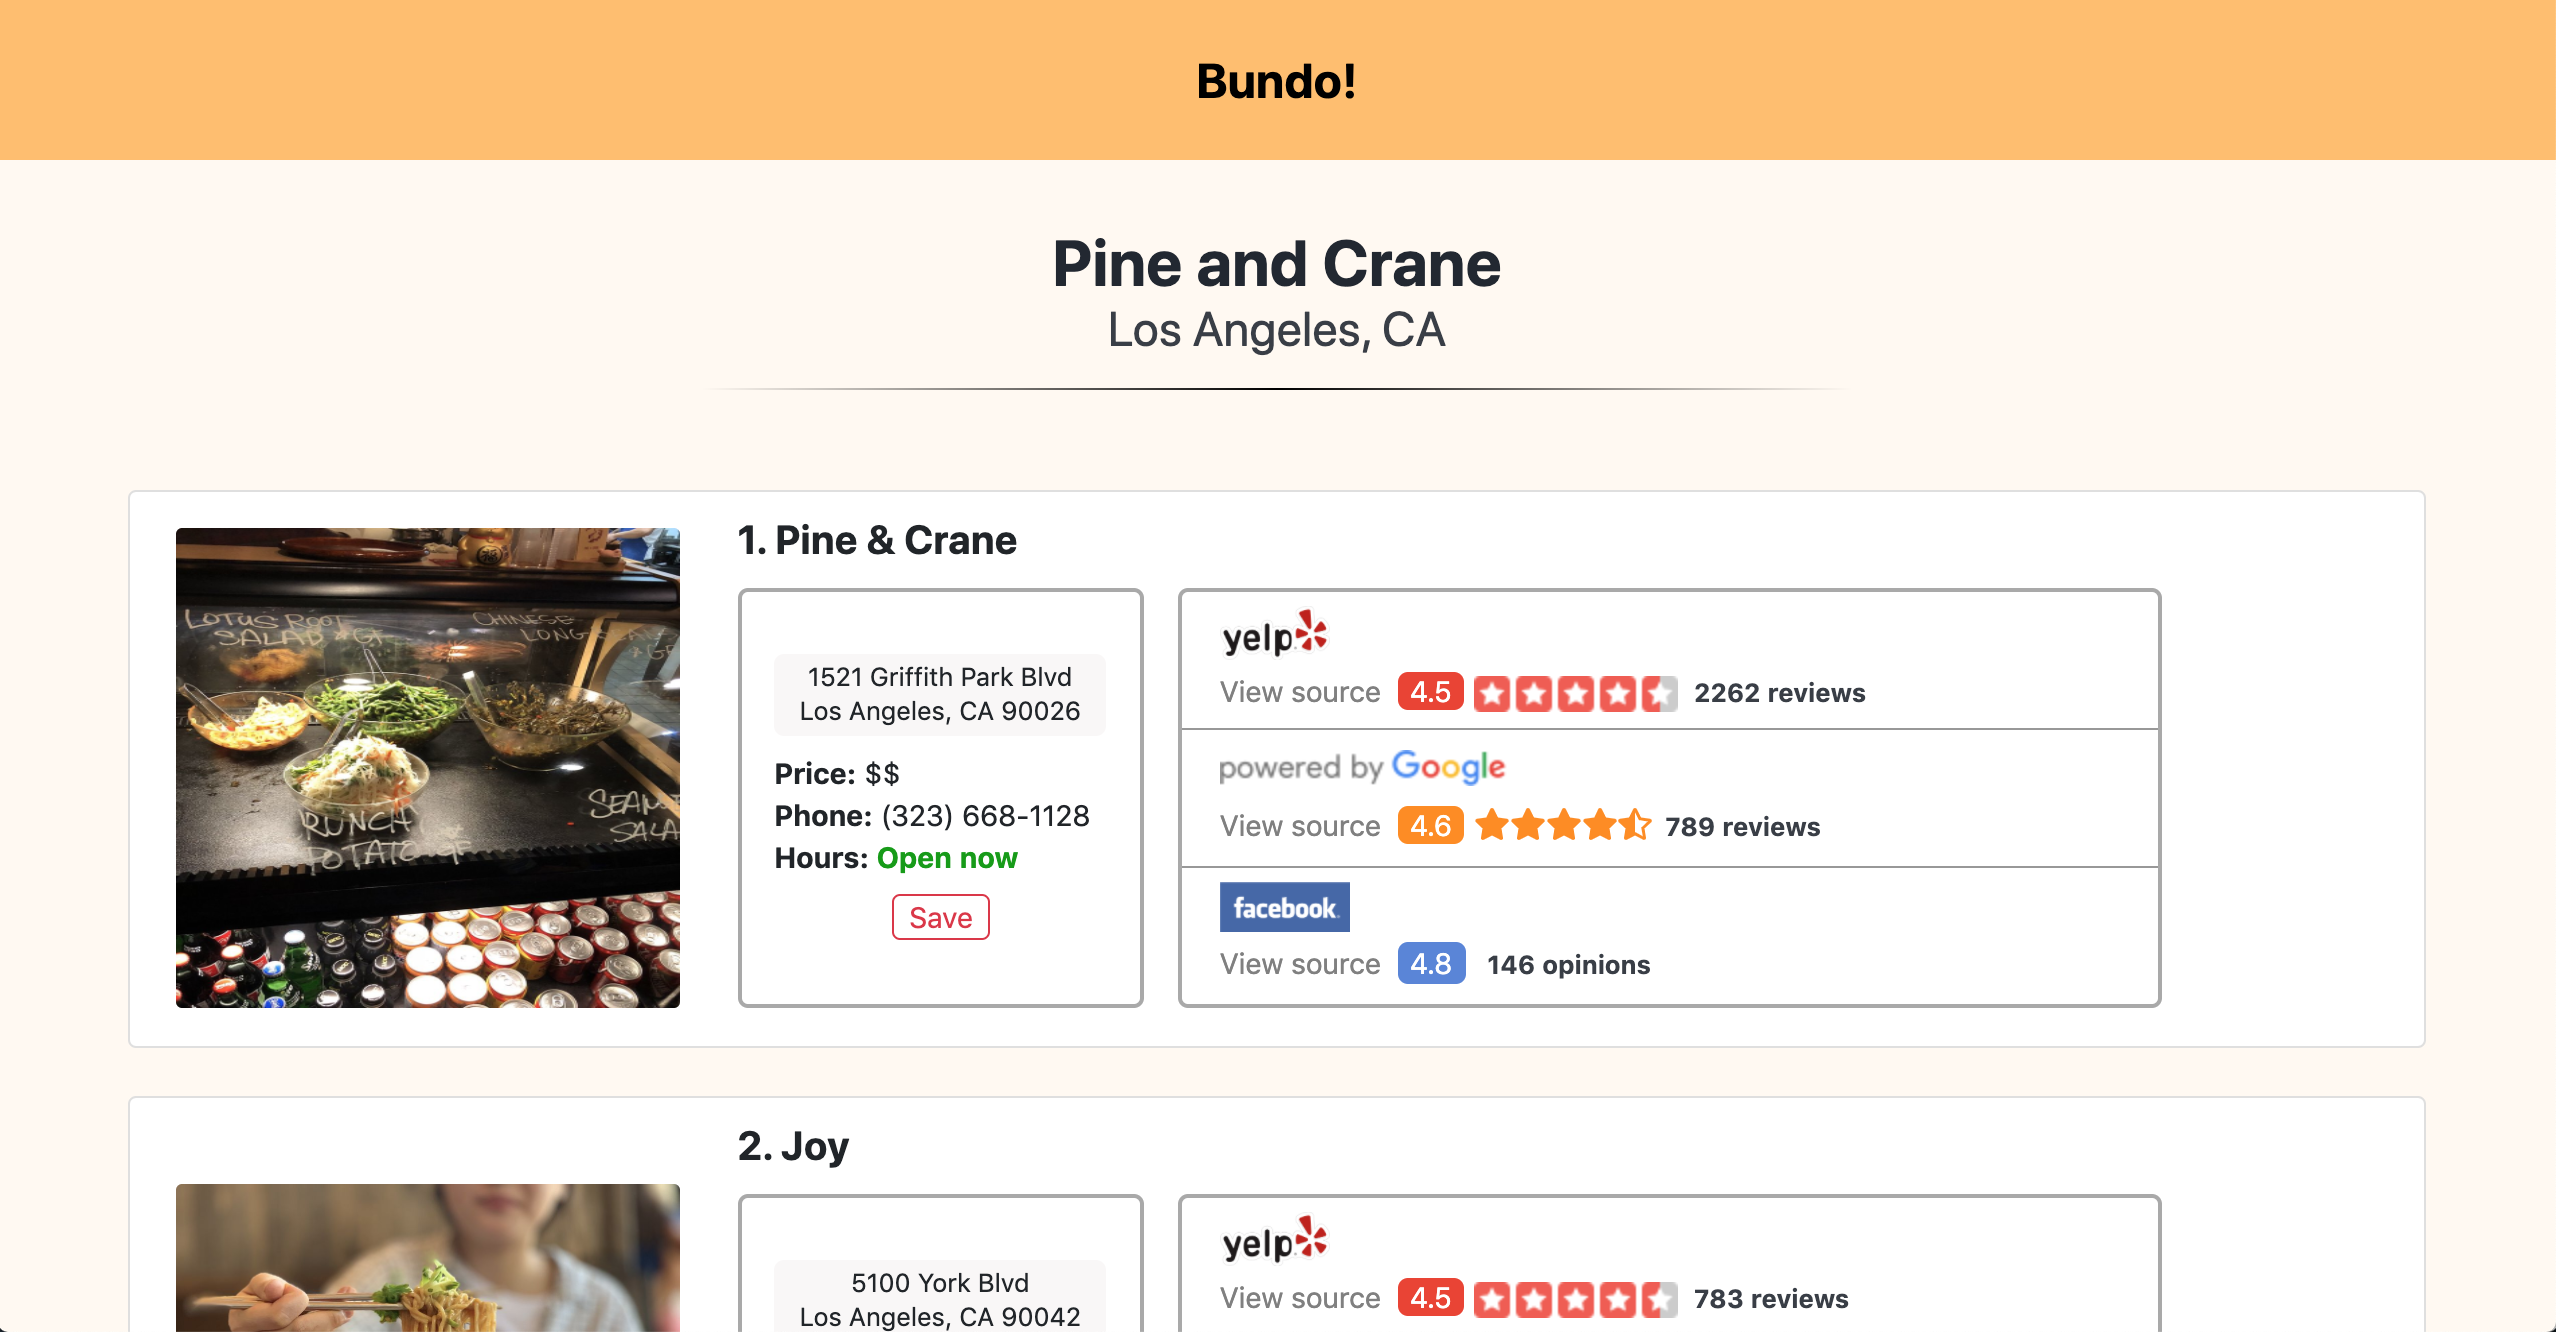
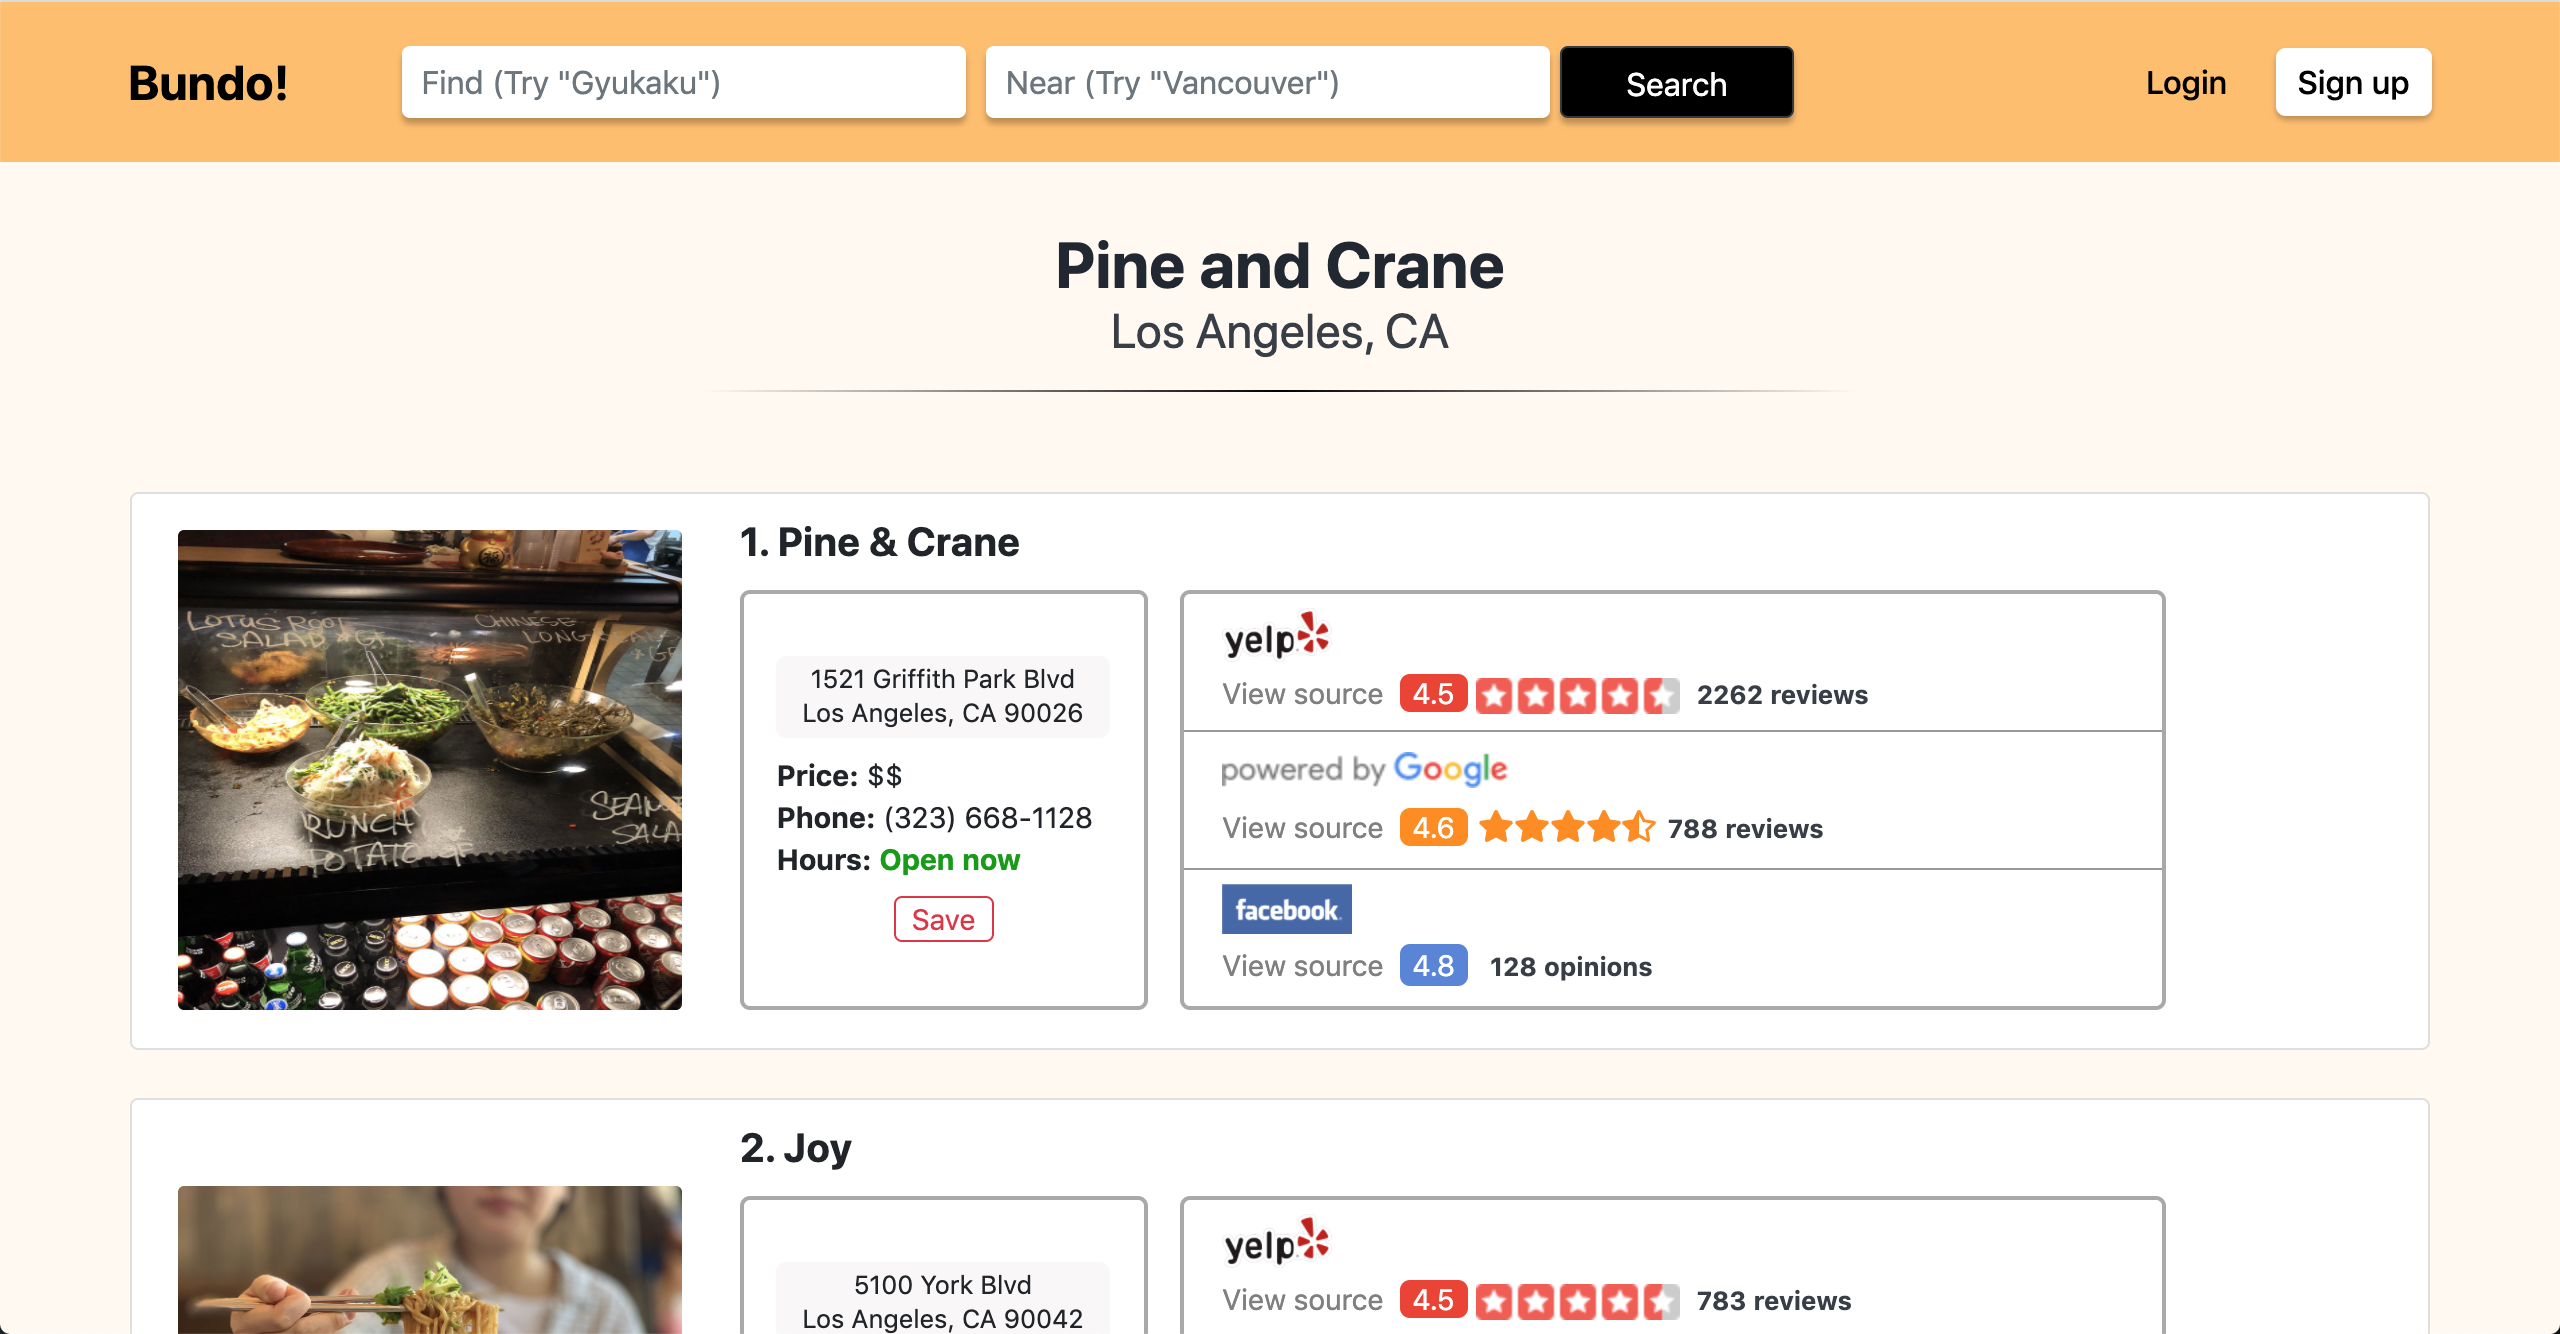
Add search capability and user buttons to results page nav bar

diff --git a/client/src/components/SearchForm.js b/client/src/components/SearchForm.js
@@ -1,8 +1,9 @@
+/* eslint-disable react/prop-types */
 import React, { useState }from 'react'
 import { useHistory, useLocation } from 'react-router-dom'
-import '../stylesheets/Home.css'
+import '../stylesheets/SearchForm.css'
 
-const SearchForm = () => {
+const SearchForm = ({ inNavBar }) => {
 	const [findDesc, setFindDesc] = useState('')
 	const [findLoc, setFindLoc] = useState('')
 	const history = useHistory()
@@ -14,14 +15,26 @@ const SearchForm = () => {
 			pathname: '/query/search',
 			search: `?find_desc=${encodeURIComponent(findDesc)}&find_loc=${encodeURIComponent(findLoc)}`
 		}
-		history.push(searchResultsLocation)
+		if (location.pathname === '/') {
+			history.push(searchResultsLocation)
+		} else {
+			history.push(searchResultsLocation)
+			window.location.reload()
+		}
+	}
+
+	let btnClassName = 'search-button btn btn-dark'
+	let inputClassName = 'col-md-6'
+	if (inNavBar) {
+		btnClassName = 'col-md-2 btn btn-dark search-button-navbar'
+		inputClassName = 'col-md-5'
 	}
 
 	return (
-		<div className="home-page text-right">
-			<form className="home-page-form" onSubmit={handleSubmit}>
+		<div className={inNavBar? 'navbar-form-main':'search-form-main'}>
+			<form className={inNavBar? 'navbar-form':'home-page-form'} onSubmit={handleSubmit}>
 				<div className="form-row align-items-center">
-					<div className="col-md-6">
+					<div className={inputClassName}>
 						<label htmlFor="inputFind" className="sr-only">Find</label>
 						<input 
 							type="text" 
@@ -33,7 +46,7 @@ const SearchForm = () => {
 						/>
 					</div>
 
-					<div className="col-md-6">
+					<div className={inputClassName}>
 						<label htmlFor="inputLocation" className="sr-only">Near</label>
 						<input 
 							type="text" 
@@ -47,7 +60,7 @@ const SearchForm = () => {
 
 					<button
 						type="submit"
-						className="search-button btn btn-dark" 
+						className={btnClassName}
 					>
 							Search
 					</button>

diff --git a/client/src/components/BizCard.js b/client/src/components/BizCard.js
@@ -176,15 +176,25 @@ const BizCard = ({ biz, authenticated, bookmarked }) => {
 		<div className="review-subsection">
 			<div className="middle">
 				<img className="facebook-logo" src={facebookLogo} alt=""  width="65px"/>
-				<div className="review-site-bizinfo">
-					<div className="review-site-url">
-						<a className="external-anchor" target="_blank" rel="noopener noreferrer" href={biz.fbUrl}>View source</a>
+				{biz.fbError ?
+					<div className="review-site-bizinfo">
+						<div className="review-site-url">
+							<a className="external-anchor" target="_blank" rel="noopener noreferrer" href="https://www.facebook.com/">View source</a>
+						</div>
+						<p className="facebook-rating facebook-rating-error">
+							N/A
+						</p>
 					</div>
-					<p className="test-facebook-rating">
-						{isNaN(biz.fbRating) ? biz.fbRating : (Math.round(biz.fbRating * 100) / 100).toFixed(1)}
-					</p>
-					<p className="facebook-review-count">{biz.fbReviewCount} opinions</p>
-				</div>
+					: <div className="review-site-bizinfo">
+						<div className="review-site-url">
+							<a className="external-anchor" target="_blank" rel="noopener noreferrer" href={biz.fbUrl}>View source</a>
+						</div>
+						<p className={isNaN(biz.fbRating) ? 'facebook-rating facebook-rating-error' : 'facebook-rating'}>
+							{isNaN(biz.fbRating) ? biz.fbRating : (Math.round(biz.fbRating * 100) / 100).toFixed(1)}
+						</p>
+						<p className="facebook-review-count">{biz.fbReviewCount} opinions</p>
+					</div>
+				}
 			</div>
 		</div>
 

diff --git a/client/src/components/NavBar.js b/client/src/components/NavBar.js
@@ -1,13 +1,40 @@
 /* eslint-disable react/prop-types */
 import React from 'react'
-import { Link } from 'react-router-dom'
+import { Link, useLocation } from 'react-router-dom'
 import '../stylesheets/NavBar.css'
+import LoginOutBtn from './LoginOutBtn'
+import SignupUserBtn from './SignupUserBtn'
+import SearchForm from './SearchForm'
 
-const NavBar = ({fixedTop}) => {
-	let baseClassName = 'navbar navbar-expand-md justify-content-center'
+const NavBar = ({ fixedTop, authenticated, user }) => {
+	const location = useLocation()
+
+	let baseClassName = 'bundo-navbar navbar navbar-expand-md'
+	let userButtons = null
+	let searchForm = null
+
+	if (fixedTop) {
+		baseClassName += ' fixed-top'
+	}
+
+	if (location.pathname === '/query/search') {
+		userButtons = <div className="user-btns ml-auto">
+			<LoginOutBtn authenticated={authenticated} />
+			<SignupUserBtn authenticated={authenticated} userInfo={user} />
+		</div>
+
+		searchForm = 
+			<SearchForm inNavBar={true} />
+		
+	} else {
+		baseClassName += ' justify-content-center'
+	}
+
 	return (
-		<div className={fixedTop ? baseClassName + ' fixed-top' : baseClassName}>
+		<div className={baseClassName}>
 			<Link className="home-link" to="/">Bundo!</Link>
+			{searchForm}
+			{userButtons}
 		</div>
 	)
 }

diff --git a/client/src/components/SearchResults.js b/client/src/components/SearchResults.js
@@ -3,13 +3,12 @@ import { useLocation } from 'react-router-dom'
 import axios from 'axios'
 import queryString from 'query-string'
 import { trackPromise } from 'react-promise-tracker'
+import authService from '../services/authentication'
 import BizCard from './BizCard'
 import Footer from './Footer'
-import SearchForm from './SearchForm'
-import LoadingIndicator from './LoadingIndicator'
-import authService from '../services/authentication'
-import '../stylesheets/SearchResults.css'
 import NavBar from './NavBar'
+import LoadingIndicator from './LoadingIndicator'
+import '../stylesheets/SearchResults.css'
 
 const SearchResults = () => {
 	const [results, setResults] = useState([])
@@ -56,14 +55,14 @@ const SearchResults = () => {
 
 	return (
 		<div className="search-results">
-			<NavBar fixedTop={true}/>
+			<NavBar fixedTop={true} authenticated={authenticated} user={user}/>
 
 			<div className="search-results-main">
 				<div className="results-subtitle text-center">
-					<h2 className="term-subtitle">
+					<div className="term-subtitle">
 						{params.find_desc} 
 						<p className="location-subtitle">{params.find_loc}</p>
-					</h2>
+					</div>
 					<hr className="subtitle-hr"></hr>
 					<LoadingIndicator />
 				</div>

diff --git a/client/src/components/Login.js b/client/src/components/Login.js
@@ -1,15 +1,17 @@
+/* eslint-disable react/prop-types */
 import React, { useState } from 'react'
-import { useHistory } from 'react-router-dom'
+import { useHistory, useLocation } from 'react-router-dom'
 import axios from 'axios'
 import '../stylesheets/Login.css'
 import Footer from './Footer'
 import NavBar from './NavBar'
 
-const Login = () => {
+const Login = ( { prevPath } ) => {
 	const [email, setEmail] = useState('')
 	const [password, setPassword] = useState('')
 	const [errorMsg, setErrorMsg] = useState(null)
 	const history = useHistory()
+	const location = useLocation()
 
 	const handleLogin = (event) => {
 		event.preventDefault()
@@ -21,7 +23,11 @@ const Login = () => {
 				console.log('Successful log in')
 				const user = response.data
 				window.localStorage.setItem('currentBundoUser', JSON.stringify(user)) 
-				history.push({pathname: '/'})
+				if (location.state.prevPath === '/register') {
+					history.go(-2)
+				} else {
+					history.goBack()
+				}
 			})
 			.catch(err => {
 				console.log(`Login error\n${err.response.data.error}`)

diff --git a/client/src/stylesheets/SearchForm.css b/client/src/stylesheets/SearchForm.css
@@ -1,3 +1,15 @@
+.navbar-form-main{
+	margin-left: 3.5rem;
+	width: 60%;
+}
+
+.navbar-form-main .search-form {
+	border: none;
+	box-shadow: 0 3px 3px rgba(0, 0, 0, 0.25);
+	transition: all 400ms ease;
+	height: 2.3rem;
+}
+
 .home-page-form .search-form {
 	border: none;
 	box-shadow: 0 3px 3px rgba(0, 0, 0, 0.25);
@@ -9,8 +21,17 @@
 	box-shadow: 0 5px 5px rgba(0, 0, 0, 0.25);
 }
 
+.navbar-form-main .search-form:focus {
+	border: none;
+	box-shadow: 0 5px 5px rgba(0, 0, 0, 0.25);
+}
+
 .home-page-form {
 	margin-top: 3.5rem;
+}
+
+.nabar-form {
+	margin: 0;
 }
 
 .search-button {
@@ -18,4 +39,11 @@
 	margin: 0 auto;
 	margin-top: 2rem;
 	box-shadow: 0 3px 3px rgba(0, 0, 0, 0.25);
+}
+
+.search-button-navbar{
+	display: inline-block;
+	background: #000000;
+	box-shadow: 0 3px 3px rgba(0, 0, 0, 0.25);
+	height: 2.3rem;
 }

diff --git a/client/src/components/Account.js b/client/src/components/Account.js
@@ -1,10 +1,11 @@
 import React, { useEffect, useState } from 'react'
-import { Link, useLocation } from 'react-router-dom'
+import { useLocation } from 'react-router-dom'
 import queryString from 'query-string'
 import axios from 'axios'
 import '../stylesheets/Account.css'
 import BizCard from './BizCard'
 import Footer from './Footer'
+import NavBar from './NavBar'
 import temp_pfp from '../images/bundo-profile.jpg'
 
 const Account = () => {
@@ -51,9 +52,7 @@ const Account = () => {
 
 	return (
 		<div className="account">
-			<div className="navbar navbar-expand-md justify-content-center">
-				<Link className="home-link" to="/">Bundo!</Link>
-			</div>
+			<NavBar fixedTop={false} />
 
 			<div className="account-main container-fluid">
 				<div className="card profile-card">

diff --git a/client/src/components/LoginOutBtn.js b/client/src/components/LoginOutBtn.js
@@ -1,9 +1,10 @@
 /* eslint-disable react/prop-types */
 import React from 'react'
-import { Link } from 'react-router-dom'
+import { Link, useLocation } from 'react-router-dom'
 import '../stylesheets/LoginOutBtn.css'
 
 const LoginOutBtn = ({ authenticated }) => {
+	const location = useLocation()
 	
 	const className = authenticated === null ? 'loginout hidden' : 'loginout'
 	
@@ -16,7 +17,11 @@ const LoginOutBtn = ({ authenticated }) => {
 	return (
 		authenticated 
 			? <button className={className} onClick={handleLogout}>Logout</button>
-			: <Link className={className} to="/login">Login</Link>
+			: <Link className={className} to={{
+				pathname: '/login', 
+				state: {
+					prevPath: location.pathname
+				}}}>Login</Link>
 	)
 }
 

diff --git a/client/src/stylesheets/SearchResults.css b/client/src/stylesheets/SearchResults.css
@@ -5,7 +5,7 @@
 .search-results-main {
 	width: 100%;
 	min-height: 150vh;
-	padding-top: 7rem;
+	padding-top: 6.5rem;
 	padding-bottom: 19rem;
 }
 
@@ -13,6 +13,7 @@
 	width: 60%;
 	border: none;
 	height: 1px;
+	margin-bottom: 0.5rem;
 	background-image: linear-gradient(to right, rgba(0, 0, 0, 0), rgba(0, 0, 0, 1), rgba(0, 0, 0, 0)); 
 }
 
@@ -24,12 +25,14 @@
 
 .term-subtitle {
 	font-weight: bold;
-	color: #222831;
+	color: black;
+	font-size: 1.6rem;
+	margin: 0;
 }
 
 .location-subtitle {
 	font-weight: normal;
-	font-size: 1.5rem;
+	font-size: 1.3rem;
 	color: #393e46;
 }
 

diff --git a/client/src/stylesheets/Home.css b/client/src/stylesheets/Home.css
@@ -27,32 +27,6 @@
 }
 
 /*
- * Search Form
- */
-
-.home-page-form .search-form {
-	border: none;
-	box-shadow: 0 3px 3px rgba(0, 0, 0, 0.25);
-	transition: all 400ms ease;
-}
-
-.home-page-form .search-form:focus {
-	border: none;
-	box-shadow: 0 5px 5px rgba(0, 0, 0, 0.25);
-}
-
-.home-page-form {
-	margin-top: 3.5rem;
-}
-
-.search-button {
-	background: #000000;
-	margin: 0 auto;
-	margin-top: 2rem;
-	box-shadow: 0 3px 3px rgba(0, 0, 0, 0.25);
-}
-
-/*
  * About Us
  */
 

diff --git a/client/src/components/Register.js b/client/src/components/Register.js
@@ -23,7 +23,7 @@ const Register = () => {
 		})
 			.then(response => {
 				console.log('Successfully registered', response.data)
-				history.push({pathname: '/login'})
+				history.push({pathname: '/login', state: {prevPath: '/register'}})
 			})
 			.catch(err => {
 				console.log(`Registeration error\n${err.response.data.error}`)

diff --git a/client/src/stylesheets/BizCard.css b/client/src/stylesheets/BizCard.css
@@ -194,7 +194,7 @@
 	margin-left: 0.4rem;
 }
 
-.test-facebook-rating {
+.facebook-rating {
 	font-size: 0.9rem;
 	display: inline-block;
 	margin-right: 0.3rem;
@@ -202,6 +202,10 @@
 	padding: 0 0.4rem;
 	border-radius: 5px;
 	color: white;
+}
+
+.facebook-rating-error {
+	font-size: 0.85rem;
 }
 
 .facebook-review-count {
